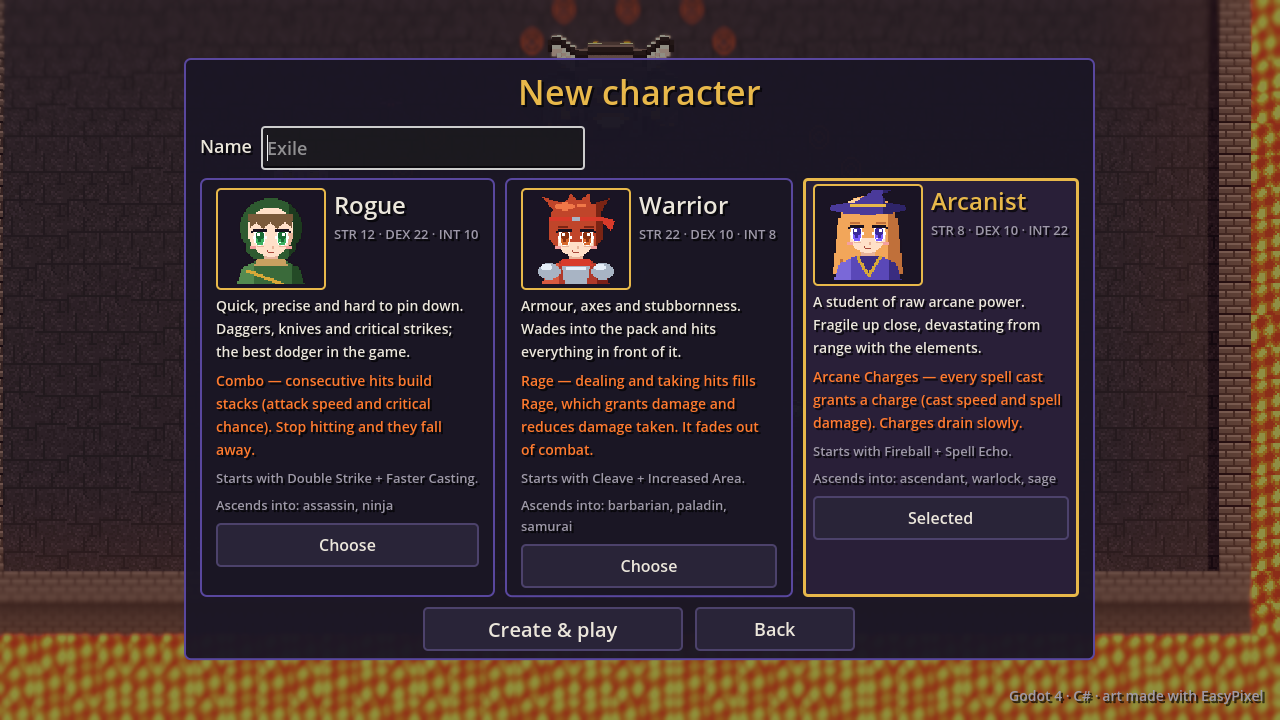
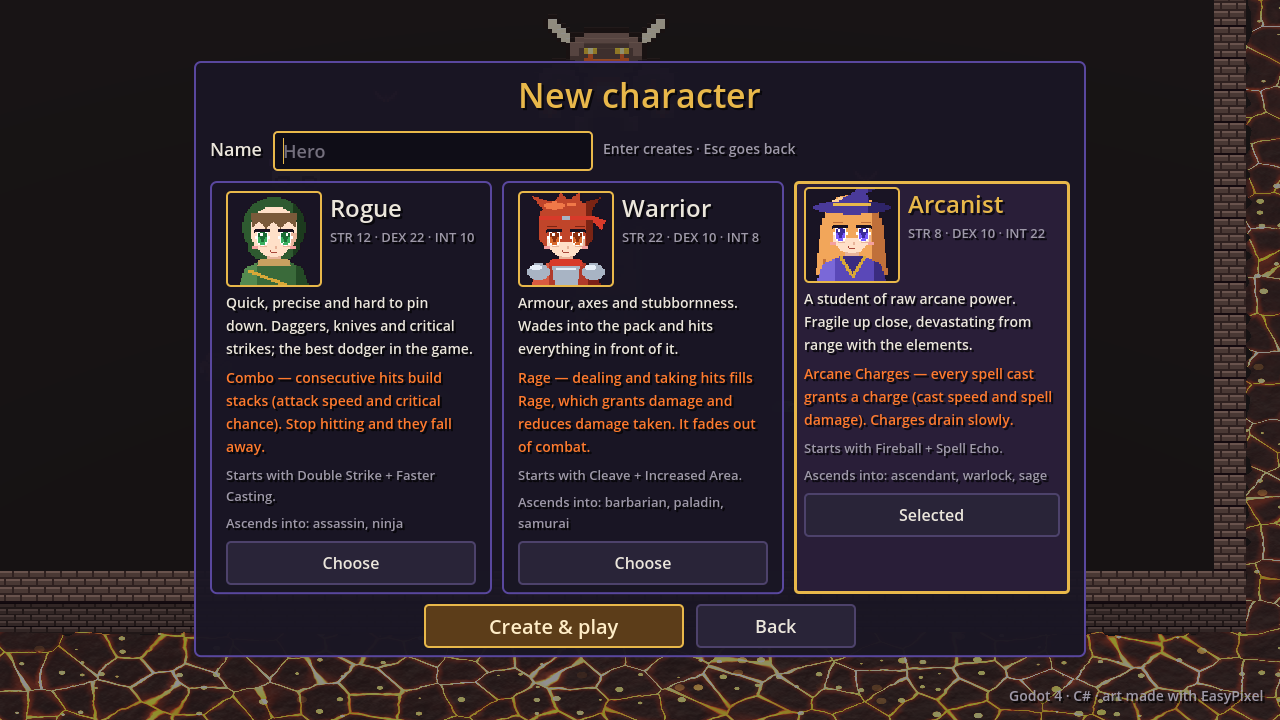
Menus pass and docs: Esc/Enter in character select, results confirm, co-op and menus captures
- Character select/create: Esc goes back a step, Enter creates, scrolling list,
  primary buttons, a red delete confirmation; opens straight on creation from
  the co-op screen.
- Results: leaving before choosing an item asks first; sentence-case buttons.
- Main menu backdrop slightly darker behind the title.
- CoopUiSmokeTest also checks the port field.
- Docs: menus.md (Co-op redesign, Look, Characters, Results), multiplayer.md
  (Session and lobby, connect timeout, testing), journal entry with before/after
  screenshots, CLAUDE.md capture modes.

Claude-Session: https://claude.ai/code/session_017oVxMuiyGo7J29bWNRcSYW

diff --git a/scripts/tests/CoopUiSmokeTest.cs b/scripts/tests/CoopUiSmokeTest.cs
@@ -116,6 +116,10 @@ public partial class CoopUiTestDriver : CoopTestDriver
             $"'{invite}' → {parsed} {ia} {ic}; chat → {chat} {ca} {cc}; bare → {bare}");
 
         // --- the host's lobby: four slots, three free -----------------------------------------
+        form.SetHostPort(0);
+        form.PressHost();
+        await Frames(2);
+        Check("BAD-PORT-INLINE", form.PortError.Length > 0 && !session.Active, $"port='{form.PortError}'");
         form.NoUpnp = true;
         form.AutoCode = JoinCode.TestCode;
         int port = 0;

diff --git a/scripts/tools/RunCaptureMenus.cs b/scripts/tools/RunCaptureMenus.cs
@@ -79,7 +79,9 @@ public partial class RunCapture
         await Wait(0.3f);
         join.SetJoinFields("127.0.0.1:7798", "TEST42");
         join.PressJoin();
-        await Wait(5.5f);
+        // Real seconds: under Xvfb frames are slow enough that timers lag behind the clock.
+        ulong until = Time.GetTicksMsec() + 5500;
+        await WaitUntil(() => Time.GetTicksMsec() >= until, 30f);
         await Snap("coop-connecting.png");
         await WaitUntil(() => join.Current == CoopPanel.View.Failed, 40f);
         await Wait(0.4f);

diff --git a/scripts/UI/MainMenu.cs b/scripts/UI/MainMenu.cs
@@ -27,7 +27,7 @@ public partial class MainMenu : Node2D
 		var layer = new CanvasLayer { Layer = 5 };
 		AddChild(layer);
 		_menuRoot = UiTheme.FullRect(layer);
-		var shade = new ColorRect { Color = new Color(0.03f, 0.02f, 0.05f, 0.45f), MouseFilter = Control.MouseFilterEnum.Ignore };
+		var shade = new ColorRect { Color = new Color(0.03f, 0.02f, 0.05f, 0.55f), MouseFilter = Control.MouseFilterEnum.Ignore };
 		_menuRoot.AddChild(shade);
 		shade.SetAnchorsAndOffsetsPreset(Control.LayoutPreset.FullRect);
 

diff --git a/docs/design/menus.md b/docs/design/menus.md
@@ -31,6 +31,13 @@ Delete (asks to confirm), New character. Creation: a name and one of three class
 cards (sprite, attributes, description, class mechanic, starting gems,
 ascendancies). Up to 6 characters.
 
+UX pass (2026-10-16): Esc goes back one step (create → list → main menu), Enter in
+the name field creates, "Create & play" is the screen's primary button (and "New
+character" when the list is empty), Delete's confirmation reads "Delete — sure?" in
+red, and the list scrolls past four characters so the buttons never leave a 720p
+screen. The co-op screen's "Create a character" opens this panel straight on
+creation; Back there returns to the main menu.
+
 ## Hideout
 
 PoE's hideout, minimal: your persistent character with its gear, the inventory and
@@ -148,6 +155,10 @@ a visible telegraph or flash.
   (`LevelUpScreen.BlocksInput`). Tests: RunSmokeTest `LEVELUP-*`.
 - Results: victory/defeat, time, level, kills, elites, bosses, gold, the build, and
   **three items — keep one**, shown with the normal item tooltip text.
+- Leaving the results before choosing forfeits the item, so the first press of
+  "Return to hideout" or "Main menu" turns it into "Leave without an item?" and says
+  so above the cards; the second press leaves (2026-10-16). Buttons are sentence
+  case like every other menu.
 
 ## Profile
 
@@ -193,11 +204,118 @@ than hand-laid `.tscn` files — consistent, resolution-independent, one place t
 tune. The window is 1280×720 with `canvas_items` stretch; the default texture
 filter is Nearest for the pixel art.
 
+Added 2026-10-16 (co-op UX pass):
+
+- **`UiTheme.PrimaryButton`**: warm bronze fill with a gold border, for the one
+  action a screen exists for (Host lobby, Join, Start run, Try again, Create &
+  play, Create a character). Everything else stays the plain button.
+- **Text fields** are themed (dark glass, gold when focused, dim placeholder) via
+  `UiTheme.Field`; `UiTheme.FieldError` turns the border ember for a field with a
+  mistake, and the message sits right under the field.
+- **`UI/Spinner`**: a drawn turning arc for anything that takes more than a moment
+  (no font glyphs needed).
+- Rules applied across the menus: every action shows feedback at once; anything
+  slow shows what is happening, the elapsed time and a way out; errors appear next
+  to where you acted and say what to do; Esc goes back one step (except out of a
+  co-op lobby, which would end it for everyone); Enter submits a form.
+
 ## Audio
 
 `Core/Sfx.cs` (autoload) synthesises every sound at startup (short envelopes over
 sine/square/noise) and three looping music beds (menu, run, boss). There are no
 audio assets yet; replacing any sound with a real file is a one-line change.
+
+## Co-op **[REDESIGNED 2026-10-16]**
+
+`UI/CoopPanel.cs`, from the main menu. Owner report: *"when my friend typed the IP
+and pressed Connect, absolutely nothing happened"*, and *"does the code do anything,
+or would the IP alone be enough?"*. The old screen was one long form (port, Host,
+address prefilled with `127.0.0.1:7777`, code, Join, a paragraph of advice, a status
+line, the party). Findings, from captures (`coop-before-*.png`):
+
+1. **Without a character both buttons were disabled** and the only hint was a dim
+   line under the title. A friend who just installed the game clicks Join and
+   nothing at all happens. Blocker.
+2. **A dead address said nothing useful for ~30 s.** The form vanished, "Connecting
+   to …" sat there with no progress, no elapsed time and no Cancel (only Leave/Back),
+   and then the form came back with one orange line. That is ENet's own timeout.
+3. **The address field was prefilled with 127.0.0.1:7777**, so a typo-free "it's
+   already filled" join went to your own PC.
+4. **Nothing explained that both the IP and the code are needed.** The code is
+   mandatory (the host checks it before admitting anyone, see multiplayer.md →
+   "Security"), the IP alone is never enough.
+5. A wrong code, a full party and a run already started all came back as one status
+   line in the middle of the panel; the lobby listed only the people present (no
+   sense that four fit); copy feedback replaced the status line.
+
+The screen now shows one state at a time:
+
+- **Choose:** two cards. *Host a game* (what you get, the port as a small advanced
+  field, **Host lobby**) and *Join a friend* ("you need both: the address finds
+  their PC, the code lets you in", **Host's address**, **Join code**, **Join**). The
+  address starts empty with an example placeholder. Mistakes are shown under the
+  field with an ember border, and focus jumps to the first wrong field. Enter in the
+  address moves to the code (or joins if it's filled), Enter in the code joins. A
+  one-line footer says which address to use where (same PC, same Wi-Fi, internet,
+  VPN).
+- **Invite:** the host's **Copy invite** puts `203.0.113.7:7777 K7Q-29M` on the
+  clipboard. Pasting it (or a chat line containing it, even with the code typed in
+  two halves) into the address field fills both fields and says so
+  (`NetTransport.TryParseInvite`).
+- **Connecting:** a spinner, "Joining <address>", the three steps (reaching the
+  host's PC → checking the join code → joining the party, done ones in green), the
+  elapsed seconds, "no answer yet, gives up after 12 s" after 4 s, and **Cancel**
+  (Esc). It gives up after `NetSession.ConnectTimeout` (12 s) instead of ~30.
+- **Failed:** a title that names the cause (*Couldn't reach the host*, *Wrong join
+  code*, *The party is full*, *The run has already started*, *Different game
+  versions*, *Your character was refused*, *The host turned the connection away*,
+  *The host closed the lobby*) and a "What to check" list for it. For an unreachable
+  host: the exact address with port, the host still in their lobby, the router line
+  in the host's lobby (UPnP) → forward UDP 7777 or a VPN, the firewall, same PC /
+  same Wi-Fi addresses. A wrong code says the address was right. **Try again**
+  (primary) and **Change address or code** (fields kept).
+- **Lobby (host):** left, *Invite friends*: the address (24 px) and the join code
+  (34 px, gold), each with Copy, New code, **Copy invite**, what kind of address it
+  is (internet when UPnP opened the port, else a VPN address, else LAN), the router
+  state in green/ember, and other LAN/VPN addresses with their own Copy invite.
+  Right, *Party n/4*: **four slots**: portrait, name, level and class, Host/You tags;
+  free slots read "Free — waiting for a friend · Send them the invite". **Start run
+  — n players** is the primary action; Close lobby ends it. The last two security
+  lines sit under the slots.
+- **Lobby (client):** the same four slots, "In the party — waiting for <host> to
+  start the run" with a spinner, Leave.
+- **No character:** "You need a character first", why, and **Create a character**,
+  which opens character creation directly.
+
+Copy confirmations and host errors appear under the title, not in the slot of the
+status line. Esc: Cancel while connecting, back to the form from a failure, Back
+from the choice; it does nothing in a lobby (leaving ends it for the host's
+friends).
+
+How the screen tells failures apart: `NetSession.Phase` (Connecting, CheckingCode,
+Joining, InLobby, with `PhaseSince`/`JoinStarted` for the elapsed time) and
+`NetSession.LastEnd` (`SessionEnd`), set where the session ends. The host's refusal
+texts are constants in `JoinRefusal` and the client classifies the reason it
+receives (both ends run the same build; the protocol number is checked first).
+
+Rejected:
+- **A single address field that accepts only `ip:port code`.** Two labelled fields
+  teach the model (address + code); the paste shortcut covers the fast path.
+- **Showing the failure as a modal.** The failure card replaces the form in place,
+  so Try again is where the Join button was.
+- **Auto-retry on failure.** It hides the cause and multiplies wrong-code attempts
+  against the host's limiter (5 a minute per address).
+
+Tests: `CoopUiSmokeTest` (see multiplayer.md → "Testing"). Captures: `RunCapture
+--only=coop` (start, inline errors, host lobby with free slots, friend's lobby,
+wrong code, connecting, unreachable) and `--only=menus` (every menu from the title
+screen, as a new player and with characters).
+
+Open questions:
+- An internet-reachability self-check for the host (would need an outside echo
+  service, which we don't run). Relays (multiplayer.md) make it moot.
+- Showing the host's own failed-join attempts more prominently than the last two
+  security lines.
 
 ## Open questions
 

diff --git a/docs/design/multiplayer.md b/docs/design/multiplayer.md
@@ -63,7 +63,9 @@ Notes:
 `scripts/Net/NetSession.cs` is an autoload (`/root/NetSession` on every machine, so its RPCs resolve whatever scene is loaded). It owns the peer, the lobby, starting the run, and every RPC.
 
 - `NetTransport` is **the one place that creates the peer** (`ENetMultiplayerPeer`, default port 7777). A Steam or EOS relay only has to return its own `MultiplayerPeer` from `Host`/`Join`.
-- Main menu → **Co-op (Survival Rift)** (`UI/CoopPanel`): Host (port) or Join (`ip:port` plus the host's **join code**). The host's lobby shows the join code, the address friends use, and this PC's LAN/VPN addresses, each with a Copy button. The lobby lists up to 4 players with name, class and level, and marks the host. The host gets Start; everyone gets Leave and Back. Each player plays their *active* character.
+- Main menu → **Co-op (Survival Rift)** (`UI/CoopPanel`, redesigned 2026-10-16, see `menus.md` → "Co-op"): *Host a game* or *Join a friend*. Joining needs **both** the host's address (it finds their PC) and the **join code** (it lets you in; the address alone is never enough). The host's lobby shows the address and the code in large type with Copy, **Copy invite** (`203.0.113.7:7777 K7Q-29M`, which a friend pastes into the address field to fill both), the router (UPnP) state, other LAN/VPN addresses, and **four party slots** with the free ones marked. The host gets Start run; everyone gets Leave. Each player plays their *active* character; without one, the screen offers to create one.
+- **Join progress and failures.** `NetSession.Phase` tells the screen where a join is (`Connecting` → `CheckingCode` → `Joining` → `InLobby`) and `LastEnd` (`SessionEnd`) why the last session ended: unreachable, wrong code, version, party full, run started, character refused, not accepted (dropped before the code was read, e.g. a blocked address), host closed, host left the run. The host's refusal texts are the constants in `JoinRefusal`; the client classifies the reason it receives (the protocol number is checked first, so both ends run the same build). Nothing about what the host checks or how often changed.
+- **Connect timeout: 12 s** (`NetSession.ConnectTimeout`). ENet alone keeps trying a dead address for ~30 s. The client now gives ENet a fixed 12 s maximum on the server peer right after `CreateClient` (`NetTransport.ShortenConnectTimeout`: `ENetPacketPeer.SetTimeout(32, 12000, 12000)`, which applies to the connect request because ENet computes its retry limit when the request is first sent, on the next poll), and the session has its own 12 s watchdog whatever the transport does. As soon as the host answers (the auth step starts) the peer goes back to ENet's defaults (32, 5 s, 30 s), so a stall mid-run doesn't drop a player sooner than before. Measured on loopback to an unused port: the failure card appears after 12.0 s.
 - On connect, the client first sends the join code in the engine's authentication step (see "Security"). Once it is accepted, the client sends its hello: its character (save-file JSON), its window size and a protocol number. The host turns away a wrong code, a mismatched build, a full party, a run already in progress (no late join), or a character that fails the sanity checks.
 - Start: everyone loads `Run.tscn`. The host holds the clock and the director until every client reports ready (clients repeat "ready" until the host answers), or 20 s pass.
 - A session lasts one run. Leaving the results screen leaves the party.
@@ -196,16 +198,18 @@ The game itself:
 
 It judges by its RESULT line, mirrored to `user://test_results/CoopSmokeTest.txt`.
 
+**Co-op screen:** `./scripts/run_all_tests.sh CoopUiSmokeTest` (about 25 s). Real `CoopPanel`s on the autoload session (host) and on in-process friend sessions, each with its own panel: the no-character state; empty fields, a malformed code and a bad port show inline errors and start nothing; the invite pastes back into address + code (also from a chat line with the code in two halves); the host lobby lists 4 slots with 3 free and the invite holds the code; a friend's panel goes Connecting → Lobby and both sides show 2 free slots; a wrong code ends on the *Wrong join code* card (`SessionEnd.WrongCode`); a fifth player ends on *The party is full*; the run-started and version reasons classify to their cards; closing the lobby shows *The host closed the lobby* on the friend's side; a join to an unused local port shows Connecting and fails within 12 ± 3 s on *Couldn't reach the host*; Cancel while connecting stops the session.
+
 **Load bench:** `./scripts/run_headless.sh res://scenes/tools/CoopBench.tscn -- [--clients=3] [--run-time=350]` runs a full party of four at a late wave, then a Cataclysm. Output goes to `user://bench/coop_bench.txt`.
 
 ### Testing it yourself
 
 1. **One PC:** run `./scripts/coop_local.sh`. It builds, opens a host window with the lobby on port 7777, then a second window that joins 127.0.0.1. Press Start in the host window. `COOP_CLIENTS=3` opens four windows. The joining windows play a throwaway copy of your profile (`--profile-readonly`), so the two windows never overwrite each other's save. Both use your active character.
-2. **With friends:** everyone needs the same build. Friends type the address *and* the join code from the host's lobby.
-   - **Direct (UPnP):** the host presses Host. After a second or two the lobby shows "Friends join with: <public-ip>:7777" (Copy) and the join code (Copy). If the operating system asks, allow the game through the firewall. If the lobby shows the fallback message instead, use one of the next two options.
-   - **Tailscale / Radmin VPN / ZeroTier:** everyone joins the same network. Friends Join with the host's VPN address, shown under "Same network / VPN", e.g. `100.101.102.103:7777`.
+2. **With friends:** everyone needs the same build and a character. The host presses **Copy invite** and sends it; friends paste it into the address field (it fills the code too) and press Join.
+   - **Direct (UPnP):** the host presses Host lobby. After a second or two the router line turns green ("Internet: ready") and the address shown is the public one. If the operating system asks, allow the game through the firewall. If the line is ember ("Internet: not reachable yet"), use one of the next two options.
+   - **Tailscale / Radmin VPN / ZeroTier:** everyone joins the same network. The lobby then puts the VPN address (`100.x` / `26.x`) in the invite, e.g. `100.101.102.103:7777`.
    - **Port forwarding:** the host forwards **UDP** 7777 to their PC on the router, allows the game through the firewall, and shares their public IP.
-   - LAN: the host's local IP (`192.168.x.y:7777`), also under "Same network / VPN".
+   - LAN: the host's local IP (`192.168.x.y:7777`), listed under the invite with its own Copy invite.
    - Not testable in the cloud, so it needs a real check: UPnP on a real router (mapping shown in the router's page, removed on Leave, at run end and on quit), a friend joining from outside, and the CG-NAT message on a mobile hotspot.
 
 ## Performance (measured 2026-10-15)

diff --git a/CLAUDE.md b/CLAUDE.md
@@ -46,7 +46,7 @@ Godot game project. This file orients any agent (or future-you) working here.
 - `scripts/coop_local.sh [port]` — co-op on one PC: builds, opens a host window (lobby on port 7777) and a client window joining 127.0.0.1 (`COOP_CLIENTS=3` for a party of four; joiners use `--profile-readonly`). Game flags: `-- --coop-host[=port]`, `--coop-join=ip:port`, `--coop-autostart=N`, `--profile-readonly`. Design: `docs/design/multiplayer.md`.
 - `scenes/tests/CoopSmokeTest.tscn` spawns two more Godot processes as clients on localhost (needs a free UDP port in 7790–8190) and judges everything from the host; `scenes/tools/CoopBench.tscn` (`-- --clients=3 --run-time=350`) measures bandwidth and CPU for a party of four into `user://bench/coop_bench.txt`. Godot 4.1.1 sends RPCs on transfer channels above 0 unreliably whatever their mode: keep every RPC on channel 0.
 - Tests that can hang at shutdown mirror their lines to `user://test_results/<Name>.txt`; `run_all_tests.sh` reads that file too (see `EndgameSmokeTest`).
-- `scenes/tools/RunCapture.tscn` — scripted windowed run that saves devlog/PR screenshots (menu, skill pick, mid-run, level-up, pause, both bosses and their mechanics, results). `-- --only=endgame` captures character select/create, hideout, Mirror, skills/tree/altar panels, all three realities and Nereth's mechanics with demo characters; `--only=crafting` the merchant, the inventory's Crafting tab and seal, the bench tabs and the tooltip with/without Alt; `--only=town` the hideout town's quarters, an overview, Ysolde's shop and the three edit-mode tools; `--only=townmap` the town minimap during a station walk and the big map (M); `--only=update` the Rift HUD, power-ups, endless phase and results, Arehucaz, the Mirror jewels and liquids; `--only=caves` each cavern style in game (entrance, liquid, the boss arena entrance, overview), the hideout canal and the loading screen; `--only=layouts` (works headless) top-down sheets of four seeds per cavern style; `--only=settings` the settings panel's three tabs.
+- `scenes/tools/RunCapture.tscn` — scripted windowed run that saves devlog/PR screenshots (menu, skill pick, mid-run, level-up, pause, both bosses and their mechanics, results). `-- --only=endgame` captures character select/create, hideout, Mirror, skills/tree/altar panels, all three realities and Nereth's mechanics with demo characters; `--only=crafting` the merchant, the inventory's Crafting tab and seal, the bench tabs and the tooltip with/without Alt; `--only=town` the hideout town's quarters, an overview, Ysolde's shop and the three edit-mode tools; `--only=townmap` the town minimap during a station walk and the big map (M); `--only=update` the Rift HUD, power-ups, endless phase and results, Arehucaz, the Mirror jewels and liquids; `--only=caves` each cavern style in game (entrance, liquid, the boss arena entrance, overview), the hideout canal and the loading screen; `--only=layouts` (works headless) top-down sheets of four seeds per cavern style; `--only=settings` the settings panel's three tabs; `--only=coop` the co-op screen's states (host/join choice, inline errors, host lobby with free slots, a friend's lobby, wrong code, connecting, unreachable — host and friends run in one process); `--only=menus` every menu reachable from the title screen, as a new player and with demo characters (incl. pause and results).
 - `.github/workflows/release.yml` + `tools/launcher/` — releases and the Windows launcher (see `docs/design/distribution.md`). Every push to `main` publishes a version automatically; a `v*` tag publishes that exact version (cloud sessions can't push tags: the git proxy only allows the session branch). The launcher is a separate .NET Framework 4.8 project (`ArpgGame.csproj` excludes `tools/**`); build it with `dotnet build tools/launcher -c Release`.
 - Launcher art: `cd tools/art && npx tsx launcher.ts` regenerates `tools/launcher/Assets/{background.png,icon.ico}` (embedded in the exe).
 - `tools/art/` — the EasyPixel art pipeline (see `docs/design/art-pipeline.md`): `npm install && npm run setup && npm run build`; `npx tsx voxels.ts` exports the voxel models (`assets/voxels/`) used by the HD-2D view — re-run it (then re-import) whenever sprites or tilesets change.

diff --git a/docs/devlog/journal.md b/docs/devlog/journal.md
@@ -440,3 +440,35 @@ Also new: a minimap on top of the town directory, showing the whole town with st
 ![Minimap during a walk](screenshots/town-minimap-walk.png)
 ![The big town map](screenshots/town-bigmap.png)
 ![Hovering a station on the map](screenshots/town-bigmap-hover.png)
+
+## 2026-10-16 — Co-op you can actually join, and a pass over the menus
+
+Owner report: *"I tried to play with a friend: he typed the IP, pressed Connect, and absolutely nothing happened."* Plus two questions: could the lobby show the free slots, so it's obvious four people fit, and does the join code do anything, or would the IP be enough?
+
+The code is not optional: the host checks it before admitting anyone, so the IP finds the PC and the code lets you in. The old screen never said that. Walking through it as a first-time joiner found the likely culprits for "nothing happened". **Without a character, Join was simply disabled**, and the only hint was a dim line under the title, so a friend who had just installed the game could click as much as he liked. **A dead address** (no UPnP, CG-NAT, firewall) hid the form behind "Connecting…" for ENet's ~30 s, with no progress, no elapsed time and no Cancel, and then came back with a single orange line. On top of that, the address field came prefilled with `127.0.0.1:7777`.
+
+The redesign shows one state at a time. You start by picking *Host a game* or *Join a friend*. The join card says you need both the address and the code; mistakes appear under the field with an ember border, and Enter submits. The host's lobby shows the address and the code in big type, a **Copy invite** button (`203.0.113.7:7777 K7Q-29M`; pasting it into the address field fills both fields), the router state in green or ember, and **four party slots**, with the free ones reading "Free — waiting for a friend". While joining you see a spinner, the step you're on (reaching the PC → checking the code → joining), the seconds so far and Cancel. It now gives up after **12 s**: ENet gets a fixed deadline on the connect request, the session has its own watchdog, and once the host answers the timeouts go back to ENet's defaults. When a join fails, the card names the cause (*Couldn't reach the host*, *Wrong join code*, *The party is full*, *The run has already started*, *Different game versions*) with a checklist and Try again. No character? The screen says so and offers *Create a character*, which opens creation directly.
+
+To tell those cases apart, `NetSession` now exposes the join phase and why the last session ended. The host's refusal texts became constants that the client classifies. What the host checks, and how often, is unchanged.
+
+Menus pass: character select and create now take Esc (back one step) and Enter (create). The list scrolls past four characters, and the delete confirmation is red. Results asks before you leave without taking your item. The main menu backdrop is a little darker behind the title. `UiTheme` gained a primary button, themed text fields with an error state, and a drawn spinner.
+
+Tests: new `CoopUiSmokeTest` (14 suites, all green). It drives real co-op panels for the host and in-process friends and checks the inline errors, the invite round trip, four slots with three free, wrong code, full party, the host closing, a dead address failing in 12 s, and Cancel. Captures: `RunCapture --only=coop` and `--only=menus`.
+
+Before:
+
+![Old co-op screen](screenshots/coop-before-start.png)
+![Old: no character — both buttons disabled](screenshots/coop-before-no-character.png)
+![Old: connecting, no progress or cancel](screenshots/coop-before-connecting.png)
+![Old: lobby](screenshots/coop-before-lobby.png)
+
+After:
+
+![Host or join](screenshots/coop-start.png)
+![Inline errors](screenshots/coop-join-errors.png)
+![Host lobby: invite and four slots](screenshots/coop-host-lobby.png)
+![A friend's lobby](screenshots/coop-client-lobby.png)
+![Connecting](screenshots/coop-connecting.png)
+![Couldn't reach the host](screenshots/coop-failed.png)
+![Wrong join code](screenshots/coop-wrong-code.png)
+![No character yet](screenshots/coop-no-character.png)
